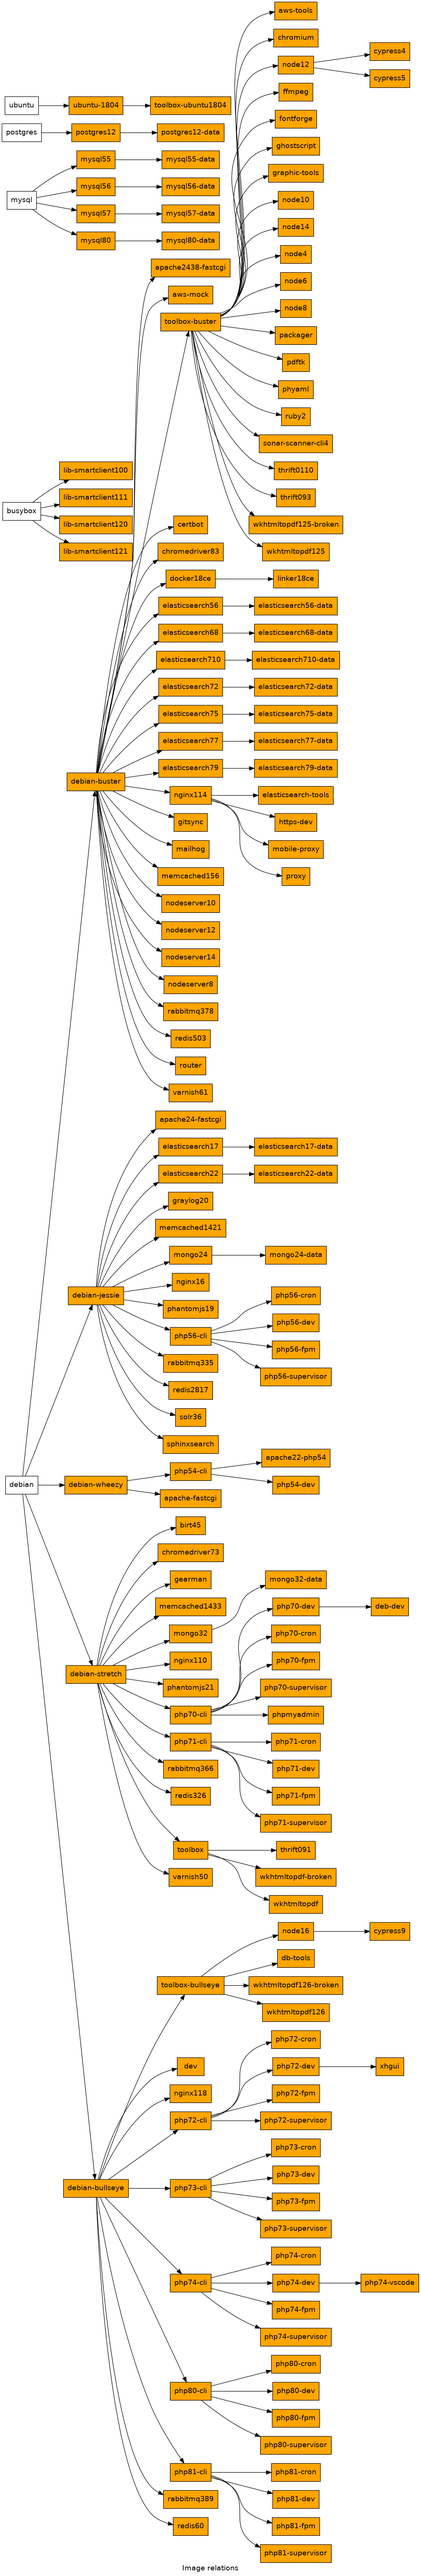
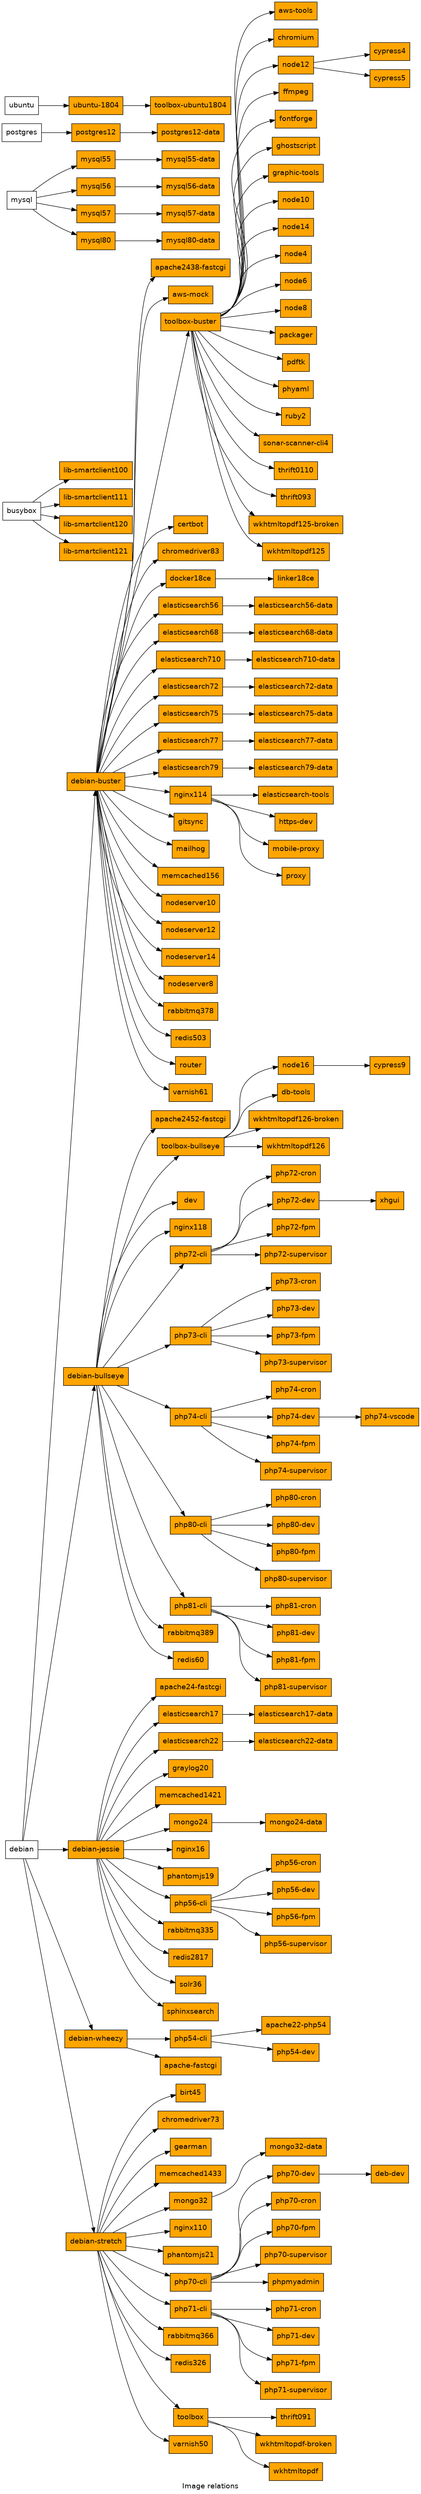
apache2452-fastcgi image was created

diff --git a/apache2452-fastcgi/README.md b/apache2452-fastcgi/README.md
@@ -1,0 +1,157 @@
+
+
+## supported env vars
+
+example:
+    docker run -it --rm -e NFQ_ENABLE_APACHE_MODULES='rewrite' [this_image]
+
+
+### APACHE_DOCUMENTROOT (optional)
+
+Sets apache document root to specified path. You don't need to change that for
+projects following standard structure.
+
+default value: /home/project/src/www/web
+
+
+### APACHE_RUN_DIR (optional)
+
+default value: /var/run/apache2
+
+
+### NFQ_FCGI_IDLE_TIMEOUT (optional)
+
+Communication timeout in seconds with remote fastcgi process (eg. php-fpm).
+You'll need to increase this timeout for long running jobs executed via
+webserver.
+
+default value: 30
+
+
+### NFQ_ENABLE_APACHE_MODULES (optional)
+
+Provide space separated lists of modules in a single quoted string
+
+default value: [empty]
+
+#### list of available modules (enabled by default shown in bold)
+
+
+* access_compat
+* __actions__
+* __alias__
+* allowmethods
+* asis
+* __auth_basic__
+* auth_digest
+* auth_form
+* authn_anon
+* __authn_core__
+* authn_dbd
+* authn_dbm
+* __authn_file__
+* authn_socache
+* authnz_fcgi
+* authnz_ldap
+* __authz_core__
+* authz_dbd
+* authz_dbm
+* authz_groupfile
+* __authz_host__
+* authz_owner
+* __authz_user__
+* __autoindex__
+* brotli
+* buffer
+* cache
+* cache_disk
+* cache_socache
+* cern_meta
+* cgi
+* cgid
+* charset_lite
+* data
+* dav
+* dav_fs
+* dav_lock
+* dbd
+* __deflate__
+* dialup
+* __dir__
+* dump_io
+* echo
+* __env__
+* expires
+* ext_filter
+* fcgid
+* file_cache
+* __filter__
+* headers
+* heartbeat
+* heartmonitor
+* http2
+* ident
+* imagemap
+* include
+* info
+* lbmethod_bybusyness
+* lbmethod_byrequests
+* lbmethod_bytraffic
+* lbmethod_heartbeat
+* ldap
+* log_debug
+* log_forensic
+* lua
+* macro
+* md
+* __mime__
+* mime_magic
+* __mpm_event__
+* mpm_prefork
+* mpm_worker
+* __negotiation__
+* __proxy__
+* proxy_ajp
+* proxy_balancer
+* proxy_connect
+* proxy_express
+* __proxy_fcgi__
+* proxy_fdpass
+* proxy_ftp
+* proxy_hcheck
+* proxy_html
+* proxy_http
+* proxy_http2
+* proxy_scgi
+* proxy_uwsgi
+* proxy_wstunnel
+* ratelimit
+* reflector
+* remoteip
+* reqtimeout
+* request
+* rewrite
+* sed
+* session
+* session_cookie
+* session_crypto
+* session_dbd
+* __setenvif__
+* slotmem_plain
+* slotmem_shm
+* socache_dbm
+* socache_memcache
+* socache_redis
+* socache_shmcb
+* speling
+* ssl
+* status
+* substitute
+* suexec
+* unique_id
+* userdir
+* usertrack
+* vhost_alias
+* xml2enc
+
+
